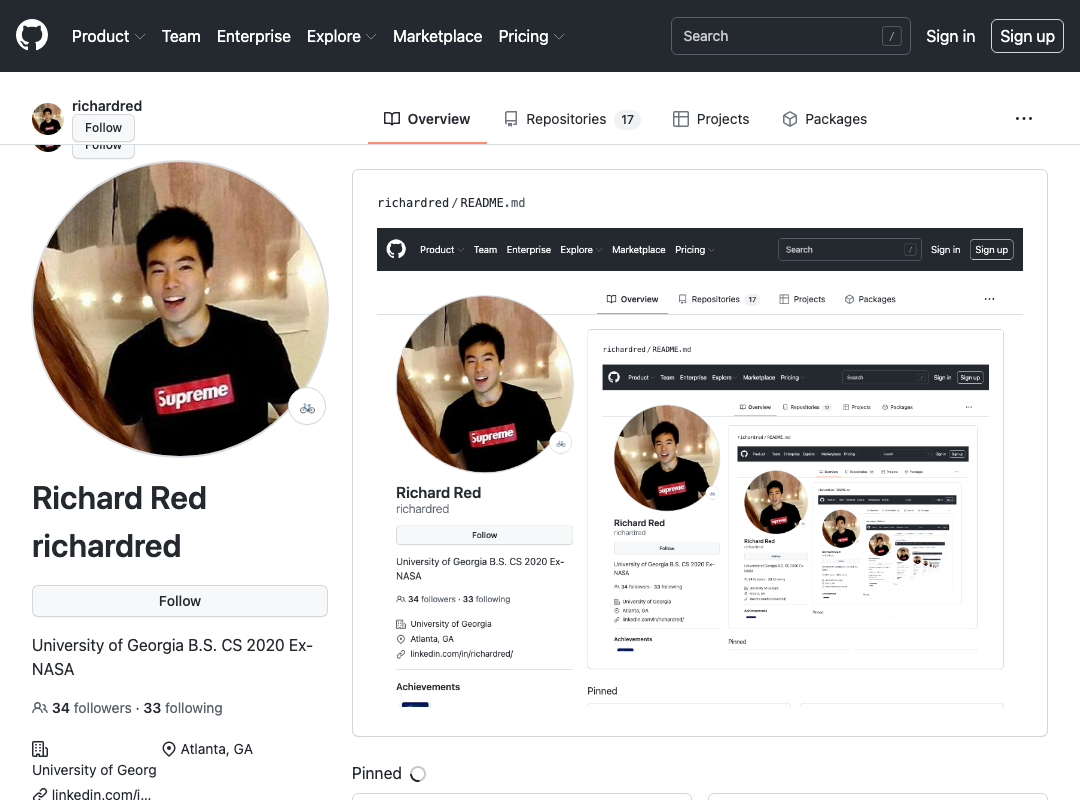
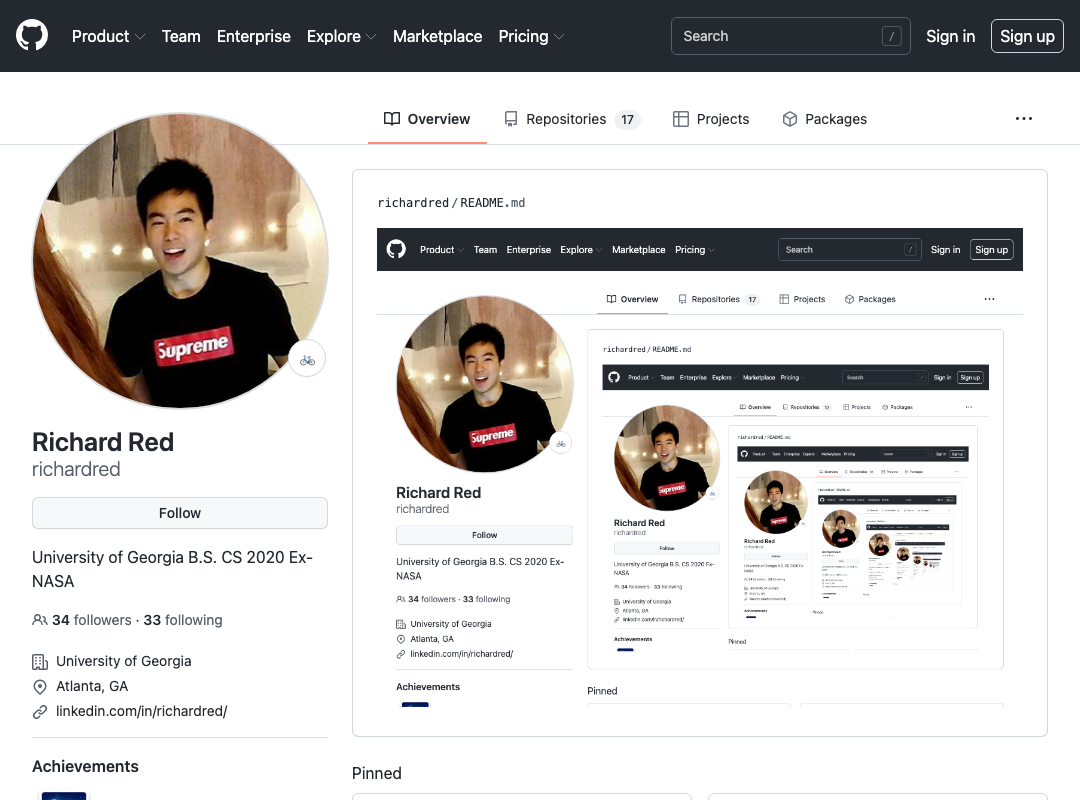
final

Changed region(s): [[0.0306, 0.125, 0.3056, 1.0]]

diff --git a/README.md b/README.md
@@ -1,1 +1,1 @@
-![Woah!](https://github.com/richardred/richardred/blob/main/screenshot-2.png)
+![Woah!](https://github.com/richardred/richardred/blob/main/screenshot-1.png)
